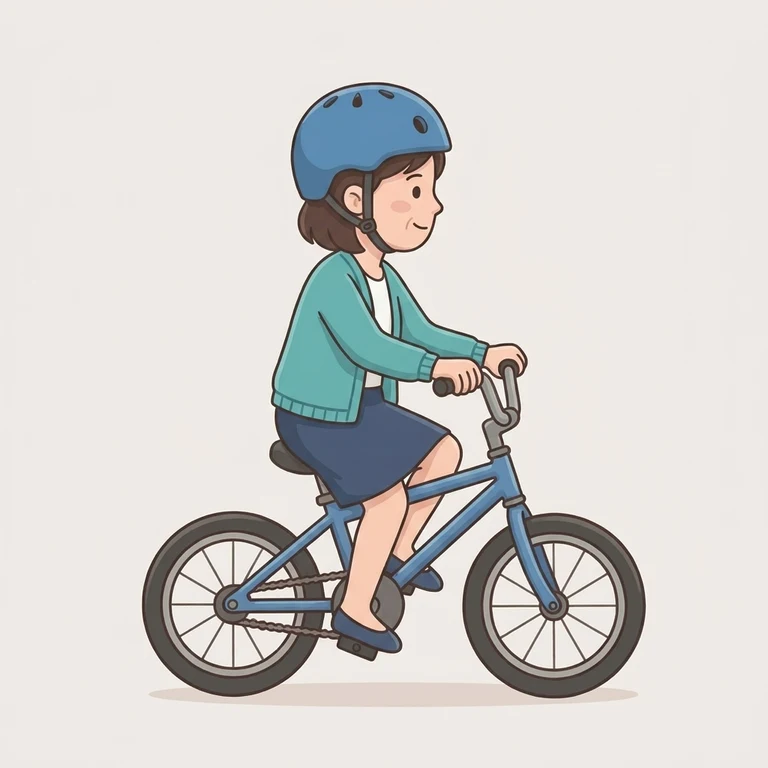
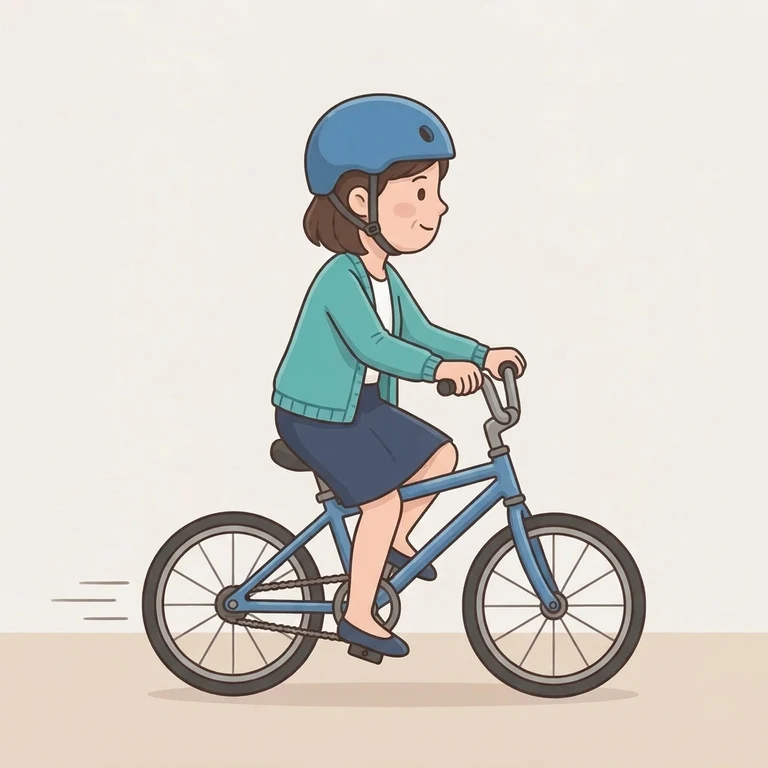
verbs_v2 wave 4: owner review done — «едет» mom on an adult-sized bike; status in the shot list
Claude-Session: https://claude.ai/code/session_015V4M7eSRfKX8ByLswUXXjz

Changed region(s): [[0.0, 0.0938, 1.0, 1.0], [0.3438, 0.5625, 0.4062, 0.625]]

diff --git a/docs/verbs-wave4-shotlist.md b/docs/verbs-wave4-shotlist.md
@@ -139,5 +139,18 @@ id карточек сохраняются (статистика не теряе
 6. `deck.json` (волна 4, порции A/B/C через порядок карточек), сборка ZIP, новая версия
    колоды по правилам `CLAUDE.md` → Deploy.
 
-Сейчас блокеры: `GEMINI_API_KEY` (генерация C), доступ к фотобанкам (`api.pexels.com` +
+## 6. Статус (2026-10-19)
+
+- **Генерация C готова и принята автором** (страница ревизии с кнопками, 37 из 37 «Отлично»
+  после одной переделки). Эталон мамы — вариант B (`ref_mom2.webp`; PNG для `gen.py` делается из него, `*.png` в git не попадают; варианты
+  `ref_mom2_a…d.webp` оставлены для истории). В `generated/` лежат новые `c_*_mom.webp` для
+  всех 28 глаголов и `c_*_boy.webp` для 9 глаголов волны 4. В `deck.json` ещё не подключены.
+- Подводные камни генерации: пример «same chair, same sink, same table» в промпте заставлял
+  модель дорисовывать раковину и мебель — промпт теперь велит брать только предметы из кадра
+  мальчика и жёстко задаёт одежду и причёску; «плавает» — исключение (купальник). «Лежит»
+  сверху читается как «стоит» — только вид сбоку с уровня пола. «Едет» — взрослый велосипед
+  по росту мамы, линии движения.
+- Дальше по разделу 5: `alsoShows` + движок → аудио → `deck.json` и сборка.
+
+Блокер для V: доступ к фотобанкам (`api.pexels.com` +
 `images.pexels.com` и `PEXELS_API_KEY`) — сеть сессии их сейчас не пускает.
